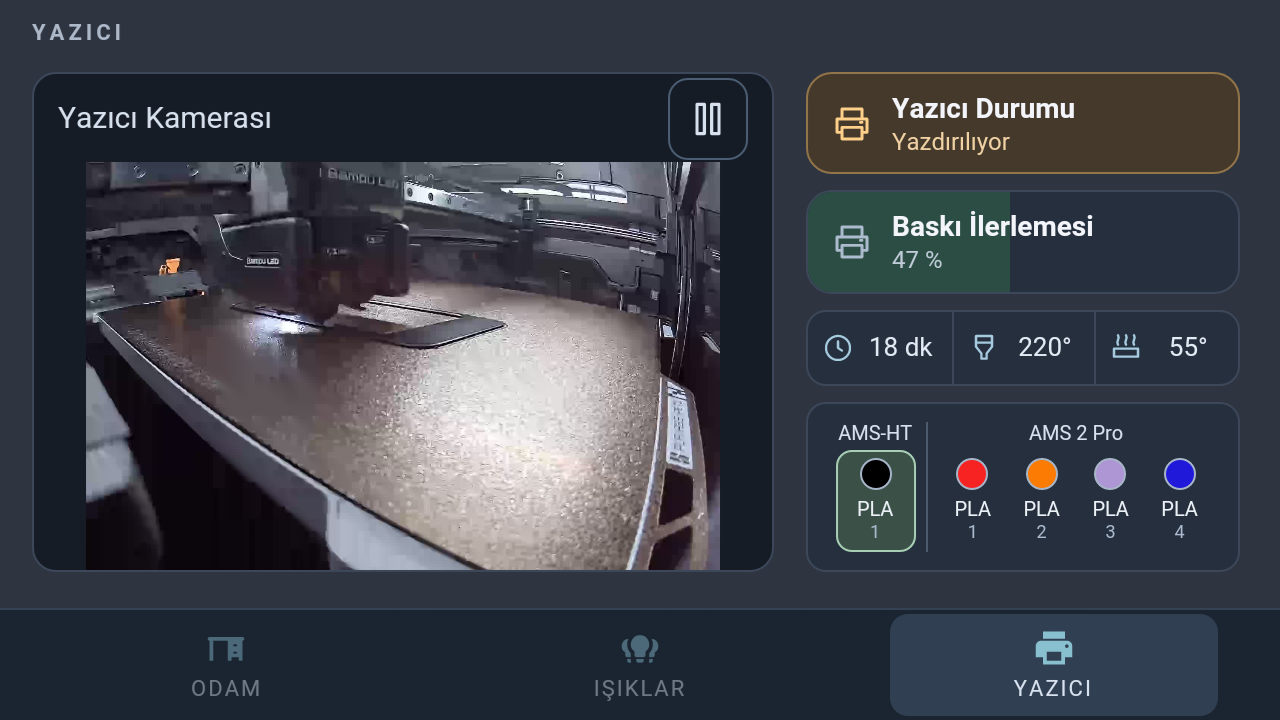
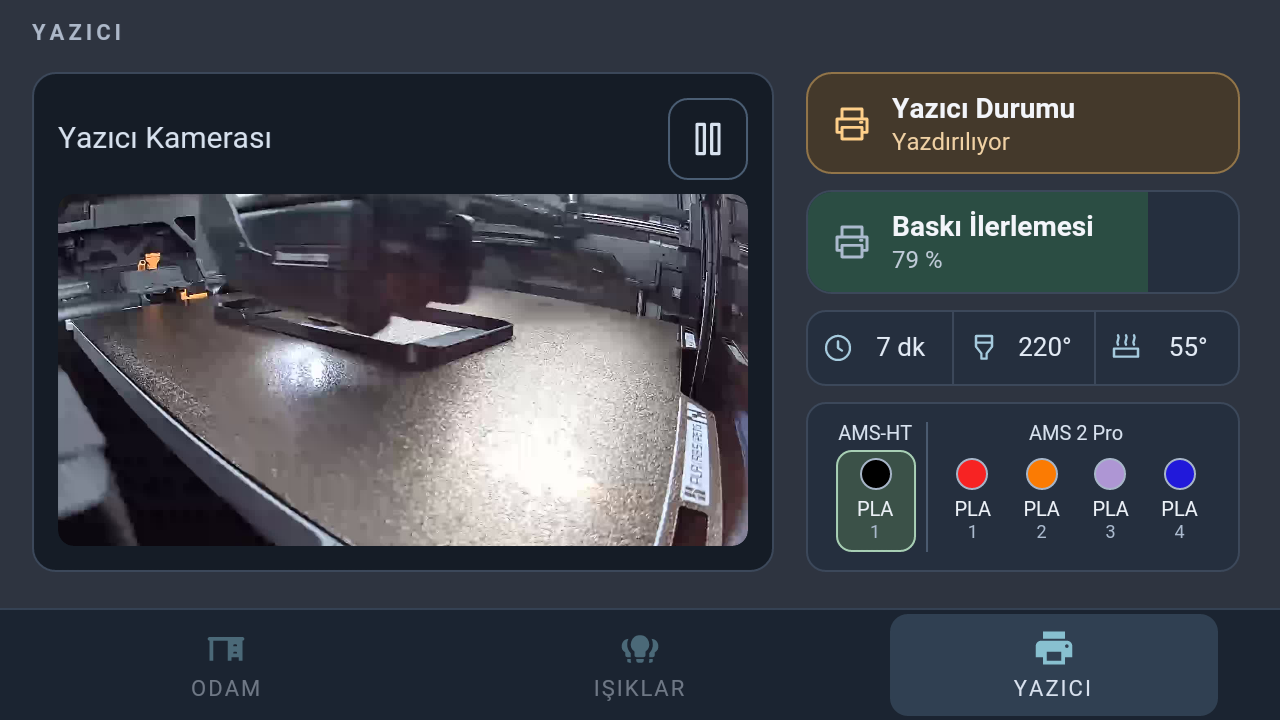
Fit rounded camera viewport and add compact remaining-time footer

diff --git a/examples/panel-v2/panel.js b/examples/panel-v2/panel.js
@@ -164,7 +164,7 @@
       var b=node('button','pv2-card'+(options.action?' pv2-action':'')+(legacy?' pv2-legacy-light':'')); b.type='button';if(options.kind==='sensor'){b.classList.add('pv2-readonly');}if(options.kind==='sensor'&&cfg.printer&&options.entity===cfg.printer.progress){b.classList.add('pv2-print-progress-card');var progressFill=node('span','pv2-card-progress-fill');progressFill.setAttribute('aria-hidden','true');b.appendChild(progressFill);b.setAttribute('role','progressbar');b.setAttribute('aria-valuemin','0');b.setAttribute('aria-valuemax','100');}
       if(b.classList.contains('pv2-print-progress-card')){var cardIcon=node('span','pv2-card-icon');cardIcon.innerHTML=icon(options.icon);b.appendChild(cardIcon);}else{b.innerHTML=icon(options.icon);}
       var text=node('span','pv2-card-text'), label=node('span','pv2-card-label',options.label), state=node('span','pv2-card-state','Yükleniyor…');
-      text.appendChild(label);text.appendChild(state);b.appendChild(text);if(options.kind==='printer'){b.classList.add('pv2-printer-summary');var track=node('span','pv2-print-track'),fill=node('span','pv2-print-fill');track.setAttribute('aria-hidden','true');track.appendChild(fill);text.appendChild(track);var summaryPercent=node('span','pv2-summary-percent');summaryPercent.setAttribute('aria-hidden','true');b.appendChild(summaryPercent);}parent.appendChild(b);
+      text.appendChild(label);text.appendChild(state);b.appendChild(text);if(options.kind==='printer'){b.classList.add('pv2-printer-summary');var track=node('span','pv2-print-track'),fill=node('span','pv2-print-fill');track.setAttribute('aria-hidden','true');track.appendChild(fill);text.appendChild(track);var summaryPercent=node('span','pv2-summary-percent');summaryPercent.setAttribute('aria-hidden','true');b.appendChild(summaryPercent);var summaryRemaining=node('span','pv2-summary-remaining');summaryRemaining.style.display='none';summaryRemaining.setAttribute('aria-hidden','true');summaryRemaining.appendChild(node('span','pv2-summary-remaining-label','Kalan:'));summaryRemaining.appendChild(node('span','pv2-summary-remaining-value'));b.appendChild(summaryRemaining);}parent.appendChild(b);
       var item={tapTimer:null,button:b,label:label,status:state,options:options,icon:b.querySelector('svg'),view:parent.getAttribute('data-pv2-screen')};cards.push(item);
       function printerPress(){if(!cfg.printer||!cfg.printer.power){if(options.kind==='printer'){navigateScreen(options.destination||'Diğer');}return;}if(item.tapTimer!==null){clearTimeout(item.tapTimer);item.tapTimer=null;printerPowerAction();return;}item.tapTimer=setTimeout(function(){item.tapTimer=null;if(options.kind==='printer'){navigateScreen(options.destination||'Diğer');}},350);}
       C.bindPress(b,function(){
@@ -293,8 +293,8 @@
     }
     function buildPrinterCamera(metrics){
       metrics.classList.add('pv2-printer-metrics');
-      var box=node('section','pv2-printer-camera'),head=node('div','pv2-camera-header'),title=node('span','','Yazıcı Kamerası'),toggle=node('button','pv2-sound pv2-camera-toggle'),image=node('img'),status=node('p','pv2-camera-status','Kamera bekleniyor…');
-      toggle.type='button';toggle.innerHTML=icon('pause');toggle.setAttribute('aria-label','Kamera görüntüsünü duraklat');toggle.title='Kamera görüntüsünü duraklat';image.alt='Yazıcının kamera görüntüsü';image.style.display='none';status.setAttribute('role','status');head.appendChild(title);head.appendChild(toggle);box.appendChild(head);box.appendChild(image);box.appendChild(status);metrics.parentNode.appendChild(box);
+      var box=node('section','pv2-printer-camera'),head=node('div','pv2-camera-header'),title=node('span','','Yazıcı Kamerası'),toggle=node('button','pv2-sound pv2-camera-toggle'),viewport=node('div','pv2-camera-viewport'),image=node('img'),status=node('p','pv2-camera-status','Kamera bekleniyor…');
+      toggle.type='button';toggle.innerHTML=icon('pause');toggle.setAttribute('aria-label','Kamera görüntüsünü duraklat');toggle.title='Kamera görüntüsünü duraklat';image.alt='Yazıcının kamera görüntüsü';image.style.display='none';status.setAttribute('role','status');head.appendChild(title);head.appendChild(toggle);box.appendChild(head);viewport.appendChild(image);viewport.appendChild(status);box.appendChild(viewport);metrics.parentNode.appendChild(box);
       printerCamera={box:box,image:image,status:status,toggle:toggle,enabled:true,active:false,timer:null,generation:0};
       toggle.addEventListener('click',function(){printerCamera.enabled=!printerCamera.enabled;toggle.innerHTML=icon(printerCamera.enabled?'pause':'play');var label=printerCamera.enabled?'Kamera görüntüsünü duraklat':'Kamera görüntüsünü göster';toggle.setAttribute('aria-label',label);toggle.title=label;syncPrinterCamera();},false);
     }
@@ -439,10 +439,15 @@
         detail=!connection()?'Bağlantı yok':printerStatusLabel(state);
         var validProgress=C.available(progress)&&progress.state!==''&&isFinite(value)&&value>=0&&value<=100;
         if(printing&&validProgress&&!officeProfile){detail+=' · '+Math.round(value)+'%';}
-        if(printing&&C.available(remaining)&&remaining.state!==''&&isFinite(minutes)&&minutes>0&&!(officeProfile&&cfg.agenda)){detail+=' · '+Math.ceil(minutes)+' dk';}
+        var validRemaining=C.available(remaining)&&remaining.state!==''&&isFinite(minutes)&&minutes>=0;
+        if(printing&&validRemaining&&!officeProfile){detail+=' · '+(minutes>0?Math.ceil(minutes):'<1')+' dk';}
         var bar=b.querySelector('.pv2-print-track');if(bar){bar.style.display=printing&&validProgress&&!(officeProfile&&cfg.agenda)?'block':'none';bar.firstChild.style.width=(printing&&validProgress?value:0)+'%';}
         var summaryPercentNode=b.querySelector('.pv2-summary-percent'),showPercent=officeProfile&&printing&&validProgress;
         if(summaryPercentNode){setText(summaryPercentNode,showPercent?Math.round(value)+'%':'');summaryPercentNode.style.display=showPercent?'block':'none';}
+        var summaryRemainingNode=b.querySelector('.pv2-summary-remaining'),showRemaining=officeProfile&&printing&&validRemaining,remainingText=showRemaining?(minutes>0?Math.ceil(minutes):'<1')+'dk':'';
+        if(summaryRemainingNode){setText(summaryRemainingNode.lastChild,remainingText);summaryRemainingNode.style.display=showRemaining?'block':'none';}
+        b.setAttribute('data-printer-remaining',showRemaining?(minutes>0?Math.ceil(minutes):'<1')+' dk':'');
+        b.classList.toggle('pv2-has-summary-footer',showPercent||showRemaining);
         b.classList.toggle('pv2-has-percent',showPercent);
         var accent=!connection()?'offline':printerShutdown?'off':printerStartup?'starting':printer.power&&get(printer.power).state==='off'?'off':!printerOnline?'offline':['failed','error'].indexOf(state.state)!==-1?'error':['pause','paused'].indexOf(state.state)!==-1?'paused':['prepare','slicing'].indexOf(state.state)!==-1?'starting':['running','printing'].indexOf(state.state)!==-1?'printing':['finish','finished'].indexOf(state.state)!==-1?'done':state.state==='idle'?'ready':'offline';
         ['off','offline','ready','starting','printing','paused','error','done'].forEach(function(name){b.classList.toggle('pv2-printer-state-'+name,accent===name);});
@@ -480,7 +485,7 @@
       b.disabled=disabled||!!busy[key];b.classList.toggle('pv2-on',on);b.classList.toggle('pv2-unavailable',unavailable);
       b.classList.toggle('pv2-pending',!!busy[key]);b.setAttribute('aria-busy',busy[key]?'true':'false');
       setText(item.label,label);setText(item.status,!connection()?'Bağlantı yok':detail);
-      b.setAttribute('aria-label',label+' · '+detail+(o.kind==='printer'&&b.getAttribute('data-printer-progress')?' · Baskı '+b.getAttribute('data-printer-progress')+'%':''));if(o.ids){b.setAttribute('aria-pressed',on?'true':'false');b.title=o.kind==='roomoff'?'Dokun: oda ışıklarını kapat':'Dokun: aç/kapat · Uzun bas: lamba ayarları';}
+      b.setAttribute('aria-label',label+' · '+detail+(o.kind==='printer'&&b.getAttribute('data-printer-progress')?' · Baskı '+b.getAttribute('data-printer-progress')+'%':'')+(o.kind==='printer'&&b.getAttribute('data-printer-remaining')?' · Kalan süre '+b.getAttribute('data-printer-remaining'):''));if(o.ids){b.setAttribute('aria-pressed',on?'true':'false');b.title=o.kind==='roomoff'?'Dokun: oda ışıklarını kapat':'Dokun: aç/kapat · Uzun bas: lamba ayarları';}
     }
     var conditions={'clear-night':'Açık gece','cloudy':'Bulutlu','exceptional':'Olağan dışı','fog':'Sisli','hail':'Dolu','lightning':'Şimşekli','lightning-rainy':'Gök gürültülü','partlycloudy':'Parçalı bulutlu','pouring':'Sağanak','rainy':'Yağmurlu','snowy':'Karlı','snowy-rainy':'Karla karışık','sunny':'Güneşli','windy':'Rüzgârlı','windy-variant':'Rüzgârlı'};
     function renderAgenda(){

diff --git a/examples/panel-v2/office.css b/examples/panel-v2/office.css
@@ -63,12 +63,13 @@
 .pv2-print-progress-card { position:relative; overflow:hidden; }
 .pv2-card-progress-fill { position:absolute; left:0; top:0; bottom:0; width:0; background:#2b4d43; pointer-events:none; }
 .pv2-print-progress-card .pv2-card-icon,.pv2-print-progress-card .pv2-card-text { position:relative; z-index:1; }
-.pv2-printer-camera { position:absolute; left:0; top:0; height:calc(100% - 8px); width:61%; margin-top:4px; border:1px solid #3c485a; border-radius:12px; background:#151c26; overflow:hidden; }
-.pv2-camera-header { height:44px; padding:0 12px; display:-webkit-flex; display:flex; -webkit-align-items:center; align-items:center; -webkit-justify-content:space-between; justify-content:space-between; color:#d8e2ef; font:15px Arial,sans-serif; }
+.pv2-printer-camera { position:absolute; left:0; top:0; height:calc(100% - 8px); width:61%; margin-top:4px; padding:12px; border:1px solid #3c485a; border-radius:12px; background:#151c26; overflow:hidden; }
+.pv2-camera-header { height:40px; padding:0; display:-webkit-flex; display:flex; -webkit-align-items:center; align-items:center; -webkit-justify-content:space-between; justify-content:space-between; color:#d8e2ef; font:15px Arial,sans-serif; }
 .pv2-camera-header .pv2-camera-toggle { width:40px; min-width:40px; min-height:40px; margin:0; padding:8px; display:-webkit-flex; display:flex; -webkit-align-items:center; align-items:center; -webkit-justify-content:center; justify-content:center; }
 .pv2-camera-toggle svg { width:23px; height:23px; color:#d8e2ef; }
-.pv2-printer-camera img { width:100%; height:calc(100% - 44px); object-fit:contain; }
-.pv2-camera-status { position:absolute; left:12px; right:12px; top:45%; margin:0; color:#d8e2ef; text-align:center; font:15px/22px Arial,sans-serif; }
+.pv2-camera-viewport { position:relative; width:100%; height:calc(100% - 48px); margin-top:8px; border-radius:8px; background:#151c26; overflow:hidden; display:-webkit-flex; display:flex; -webkit-align-items:center; align-items:center; -webkit-justify-content:center; justify-content:center; }
+.pv2-printer-camera img { display:block; width:100%; height:100%; border-radius:8px; object-fit:cover; }
+.pv2-camera-status { position:absolute; left:12px; right:12px; top:50%; -webkit-transform:translateY(-50%); transform:translateY(-50%); margin:0; color:#d8e2ef; text-align:center; font:15px/22px Arial,sans-serif; }
 .pv2-camera-status.pv2-camera-loading { font-size:0; line-height:0; }
 .pv2-camera-status.pv2-camera-loading:before { content:''; display:inline-block; width:28px; height:28px; border:3px solid #425166; border-top-color:#b6d9ef; border-radius:50%; -webkit-animation:pv2-camera-spin 1s linear infinite; animation:pv2-camera-spin 1s linear infinite; }
 @-webkit-keyframes pv2-camera-spin { to { -webkit-transform:rotate(360deg); } }
@@ -152,11 +153,14 @@
 
 /* Quiet status accents and a dedicated lower-right progress readout. */
 .panel-v2-office .pv2-printer-summary { position:relative; }
+.pv2-summary-remaining { display:none; position:absolute; left:10px; bottom:8px; text-align:left; color:#bce4d0; pointer-events:none; }
+.pv2-summary-remaining-label { display:block; font:10px/12px Arial,sans-serif; }
+.pv2-summary-remaining-value { display:block; font:700 12px/14px Arial,sans-serif; }
 .pv2-summary-percent { display:none; position:absolute; right:10px; bottom:8px; font:700 28px/30px Arial,sans-serif; letter-spacing:-1px; color:#bce4d0; pointer-events:none; }
-.panel-v2-office .pv2-with-agenda .pv2-printer-summary.pv2-has-percent { padding:8px 10px 36px; -webkit-justify-content:flex-start; justify-content:flex-start; }
-.panel-v2-office .pv2-with-agenda .pv2-printer-summary.pv2-has-percent > svg { width:18px; height:18px; min-height:18px; margin:0 0 4px; }
-.panel-v2-office .pv2-with-agenda .pv2-printer-summary.pv2-has-percent .pv2-card-label { font-size:14px; line-height:17px; }
-.panel-v2-office .pv2-with-agenda .pv2-printer-summary.pv2-has-percent .pv2-card-state { font-size:11px; line-height:13px; margin-top:2px; }
+.panel-v2-office .pv2-with-agenda .pv2-printer-summary.pv2-has-summary-footer { padding:8px 10px 36px; -webkit-justify-content:flex-start; justify-content:flex-start; }
+.panel-v2-office .pv2-with-agenda .pv2-printer-summary.pv2-has-summary-footer > svg { width:18px; height:18px; min-height:18px; margin:0 0 4px; }
+.panel-v2-office .pv2-with-agenda .pv2-printer-summary.pv2-has-summary-footer .pv2-card-label { font-size:14px; line-height:17px; }
+.panel-v2-office .pv2-with-agenda .pv2-printer-summary.pv2-has-summary-footer .pv2-card-state { font-size:11px; line-height:13px; margin-top:2px; }
 .panel-v2-office .pv2-printer-summary.pv2-printer-state-ready { background:#263a38; border-color:#517e73; }
 .panel-v2-office .pv2-printer-summary.pv2-printer-state-ready > svg { color:#a3d7c8; }
 .panel-v2-office .pv2-printer-summary.pv2-printer-state-printing,.panel-v2-office .pv2-printer-summary.pv2-printer-state-done { background:#263d34; border-color:#5b9676; }

diff --git a/docs/printer-camera-frame-review.md b/docs/printer-camera-frame-review.md
@@ -1,0 +1,64 @@
+# Camera framing and Home remaining time — 2026-11-01
+
+Samsung office profile only, native Build 16 unchanged. Camera content now uses a
+rounded viewport inside 12px outer padding, separated from its 40px header by an
+8px gap. The feed fills the viewport with `object-fit: cover`, preserving its
+aspect ratio and cropping overflow instead of showing letterbox background.
+The placeholder/spinner is centered inside this viewport. Camera start/stop,
+offline gating, request timing and pause/resume logic are unchanged.
+
+The Home printer tile shows `Kalan:` above compact minutes at bottom left, beside
+the existing percentage on the right. A footer layout reserves room for either
+value independently. Remaining time follows confirmed printer/power/connection
+state, converts hour/second units, rejects unavailable/negative values and clears
+on power-off; zero while printing means less than one minute, not an invented
+idle duration. The button accessible label includes the remaining minutes.
+
+Existing office tests passed with additional remaining-value and power-off
+assertions. Actual Samsung capture verifies the live tile and camera viewport.
+No physical printer/lamp/power commands were used. Deployment privately backed
+up CSS, JavaScript, mapping and HoaryDash configuration; it asserted Denver and
+mappings unchanged. Rollback uses those backups. Source changes are office-only
+at deployment; the Denver APK, helpers and runtime assets remain unchanged.
+
+| Check | Status | Evidence / remaining work |
+| --- | --- | --- |
+| D01 | PENDING | Not repeated on this deployment; no full general-feature acceptance claim. |
+| D02 | PENDING | Not repeated on this deployment; no full general-feature acceptance claim. |
+| D03 | PENDING | Not repeated on this deployment; no full general-feature acceptance claim. |
+| D04 | PENDING | Not repeated on this deployment; no full general-feature acceptance claim. |
+| D05 | PENDING | Not repeated on this deployment; no full general-feature acceptance claim. |
+| D06 | PENDING | Not repeated on this deployment; no full general-feature acceptance claim. |
+| D07 | PENDING | Not repeated on this deployment; no full general-feature acceptance claim. |
+| D08 | PENDING | Not repeated on this deployment; no full general-feature acceptance claim. |
+| D09 | N/A | Samsung has no battery overlay; Denver assets were not deployed. |
+| D10 | N/A | Samsung has no battery overlay; Denver assets were not deployed. |
+| D11 | PENDING | Not repeated on this deployment; no full general-feature acceptance claim. |
+| D12 | PENDING | Not repeated on this deployment; no full general-feature acceptance claim. |
+| D13 | PENDING | Not repeated on this deployment; no full general-feature acceptance claim. |
+| D14 | PENDING | Not repeated on this deployment; no full general-feature acceptance claim. |
+| U01 | N/A | Office profile has no Denver home layout, robot or all-house countdown. |
+| U02 | PENDING | Not repeated on this deployment; no full general-feature acceptance claim. |
+| U03 | PENDING | Not repeated on this deployment; no full general-feature acceptance claim. |
+| U04 | PENDING | Not repeated on this deployment; no full general-feature acceptance claim. |
+| U05 | PENDING | Not repeated on this deployment; no full general-feature acceptance claim. |
+| U06 | PENDING | Not repeated on this deployment; no full general-feature acceptance claim. |
+| U07 | PENDING | Not repeated on this deployment; no full general-feature acceptance claim. |
+| U08 | PASS | Actual Samsung print view: camera fills the rounded viewport; balanced 12px outer padding and 8px header gap. Home time/progress footer has equal 10px side and 8px bottom insets. |
+| H01 | N/A | Office profile has no Denver home layout, robot or all-house countdown. |
+| H02 | PENDING | Not repeated on this deployment; no full general-feature acceptance claim. |
+| H03 | PENDING | Not repeated on this deployment; no full general-feature acceptance claim. |
+| H04 | PENDING | Not repeated on this deployment; no full general-feature acceptance claim. |
+| H05 | PENDING | Not repeated on this deployment; no full general-feature acceptance claim. |
+| H06 | PENDING | Not repeated on this deployment; no full general-feature acceptance claim. |
+| H07 | N/A | Office profile has no Denver home layout, robot or all-house countdown. |
+| H08 | N/A | Office profile has no Denver home layout, robot or all-house countdown. |
+| H09 | PENDING | Not repeated on this deployment; no full general-feature acceptance claim. |
+| H10 | PENDING | Not repeated on this deployment; no full general-feature acceptance claim. |
+| H11 | PENDING | Active printing state visually checked. Automated power-off/camera/offline tests passed; live power transitions not tested during a print. |
+| E01 | PASS | office-panel.test.cjs and ES5 parse passed; missing/negative/zero/hour remaining values and power-off clearing verified with fixtures. |
+| E02 | PASS | Served CSS/viewport/footer identity verified; actual Samsung Home and Printer views captured while printing. |
+| E03 | PASS | Only intended source/tests/guides and printer-only images published; no company calendar titles or credentials. |
+| E04 | PASS | Intended source/tests/guides/screenshots committed/pushed; remaining physical checks explicitly pending. |
+
+Overall: PENDING for the full general-feature gate; requested visual behavior verified on the Samsung.

diff --git a/docs/office-profile.md b/docs/office-profile.md
@@ -57,6 +57,15 @@ acceptance is recorded separately; full panel blanking is not yet accepted.
 
 This device capture shows the camera, live print telemetry and AMS groups, with
 AMS-HT on the left and the active filament highlighted in a rounded, padded tile.
+The camera fills its rounded viewport using aspect-preserving cropping, with
+12px card padding and an 8px gap below the header.
+
+The Home printer tile places a small two-line remaining-time readout at the lower
+left and progress at the lower right. Missing, negative, idle, disconnected or
+powered-off data clears the remaining-time readout. Valid values below one
+minute display `<1dk`; hour/second sensors are converted to minutes.
+
+![Home printer tile with remaining minutes and progress](images/samsung-printer-summary.png)
 
 
 The visible Yazıcı tab retains the internal Diğer route for existing bookmarks.
